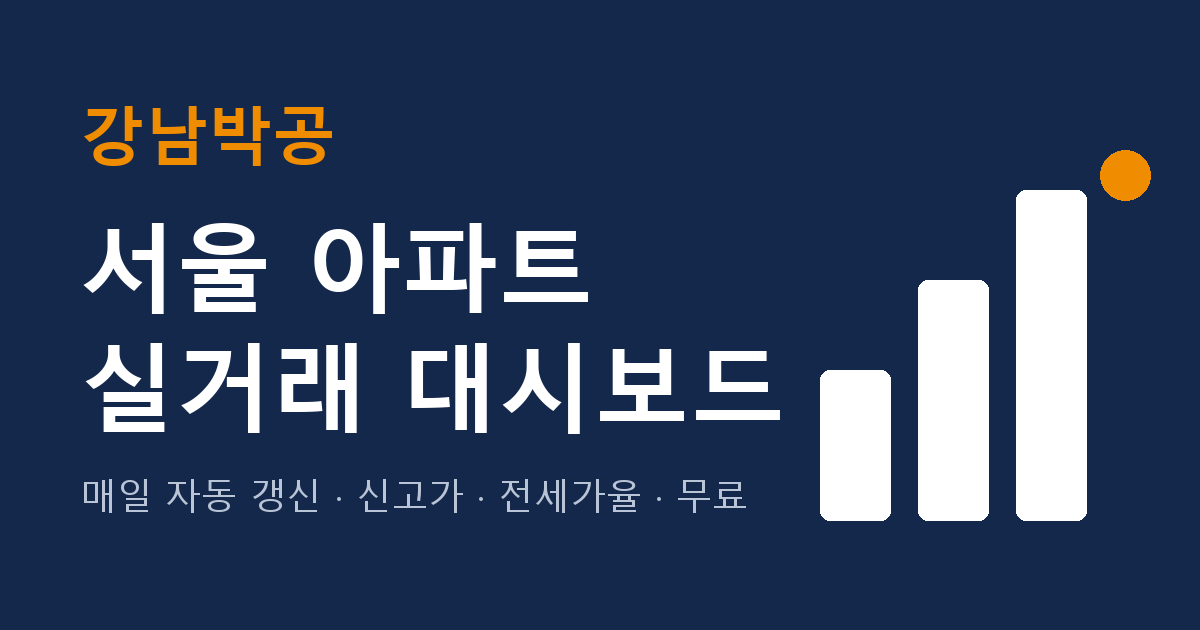
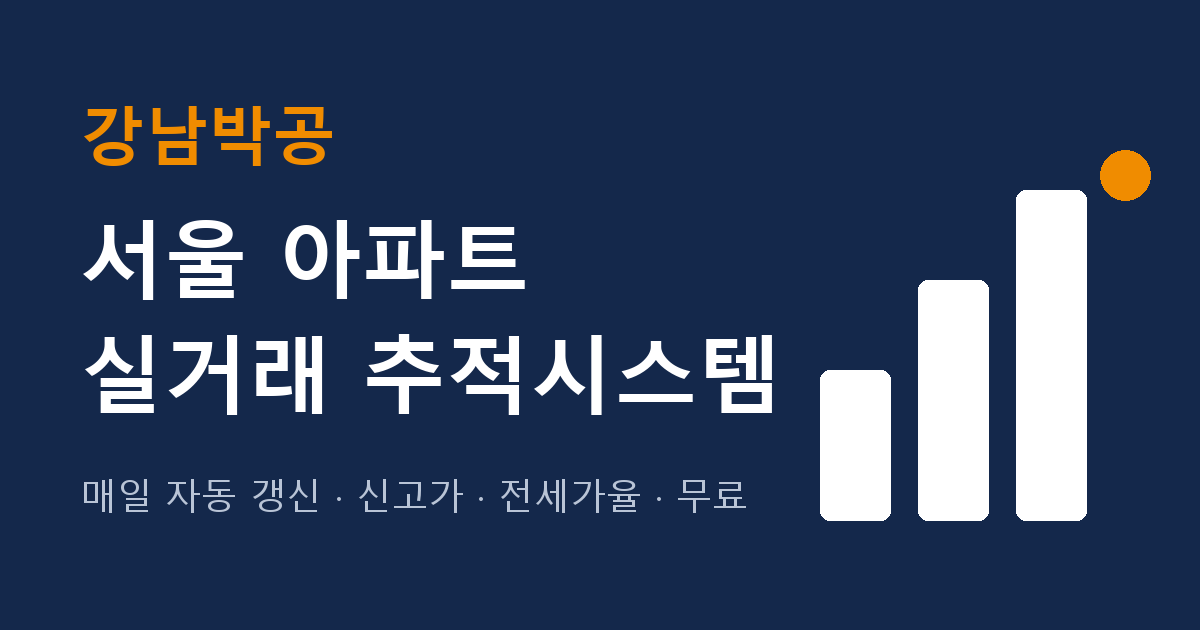
사이트 이름을 '강남박공의 서울 아파트 실거래 추적시스템'으로 변경

Changed region(s): [[0.0617, 0.3317, 0.6475, 0.6937]]

diff --git a/site/index.html b/site/index.html
@@ -3,10 +3,10 @@
 <head>
 <meta charset="utf-8">
 <meta name="viewport" content="width=device-width,initial-scale=1,viewport-fit=cover">
-<title>강남박공 서울 아파트 실거래 대시보드</title>
+<title>강남박공의 서울 아파트 실거래 추적시스템</title>
 <meta name="description" content="매일 자동으로 갱신되는 서울 아파트 실거래 분석. 신고가, 전고점 대비 낙폭, 전세가율, 단지 비교, 조건 검색까지 무료로.">
 <meta property="og:type" content="website">
-<meta property="og:title" content="강남박공 서울 아파트 실거래 대시보드">
+<meta property="og:title" content="강남박공의 서울 아파트 실거래 추적시스템">
 <meta property="og:description" content="매일 자동 갱신 · 신고가 · 낙폭 · 전세가율 · 단지 비교 · 조건 검색 — 무료">
 <meta property="og:image" content="og.png">
 <meta name="twitter:card" content="summary_large_image">
@@ -25,7 +25,7 @@
   <div class="top-in">
     <a class="brand" href="#/" aria-label="홈으로">
       <span class="logo" id="brand">강남박공</span>
-      <span class="brand-sub">서울 아파트 실거래</span>
+      <span class="brand-sub">서울 아파트 실거래 추적시스템</span>
     </a>
     <div class="search" role="search">
       <input id="q" type="search" placeholder="단지명 검색 · 초성도 돼요 (ㄹㅁㅇ)" autocomplete="off" aria-label="단지명 검색">

diff --git a/scripts/make_images.py b/scripts/make_images.py
@@ -46,8 +46,8 @@ def og() -> Image.Image:
     bars(d, 820, 520, 70, 28, [150, 240, 330], 10)
     d.ellipse([1100, 150, 1150, 200], fill=ORANGE)
     d.text((80, 90), sc.get("brand", ""), font=font(64), fill=ORANGE)
-    d.text((80, 200), "서울 아파트", font=font(96), fill=WHITE)
-    d.text((80, 320), "실거래 대시보드", font=font(96), fill=WHITE)
+    d.text((80, 200), "서울 아파트", font=font(84), fill=WHITE)
+    d.text((80, 315), "실거래 추적시스템", font=font(84), fill=WHITE)
     d.text((80, 470), "매일 자동 갱신 · 신고가 · 전세가율 · 무료", font=font(36, False), fill=SOFT)
     return im
 

diff --git a/docs/캡틴_체크리스트.md b/docs/캡틴_체크리스트.md
@@ -22,9 +22,9 @@
 
 ## B. 정해 주실 것 (답만 주시면 돼요)
 
-- [ ] 상단 버튼 주소가 `soldnh15.liveklass.com` 이 맞는지, 문구 "내집마련 사관학교 보러 가기"가 괜찮은지 (D119)
-- [ ] 사이트 이름 "강남박공 서울 아파트 실거래 대시보드" (D120)
-- [ ] 저장소 이름 `seoul-apt-dashboard` (D121)
+- [ ] 상단 버튼 주소·문구 — 홈페이지 제작 팀에게 받아서 넣기로 함(캡틴 2026-11-14). 받기 전까지는 `soldnh15.liveklass.com` (D119)
+- [x] 사이트 이름 "강남박공의 서울 아파트 실거래 추적시스템" (캡틴 2026-11-14, D120)
+- [x] 저장소 이름 `seoul-apt-dashboard` (캡틴 2026-11-14 "알아서 해", D121)
 
 ## C. 나중에 해도 되는 것 (넣으면 기능이 켜져요 · 전부 무료)
 

diff --git a/README.md b/README.md
@@ -1,4 +1,4 @@
-# 강남박공 서울 아파트 실거래 대시보드
+# 강남박공의 서울 아파트 실거래 추적시스템
 
 서울 25개 구 아파트 실거래(매매·전월세)를 **매일 자동으로 받아서 분석하고, 누구나 무료로 보는 웹 대시보드**로 내보내는 프로그램입니다.
 
